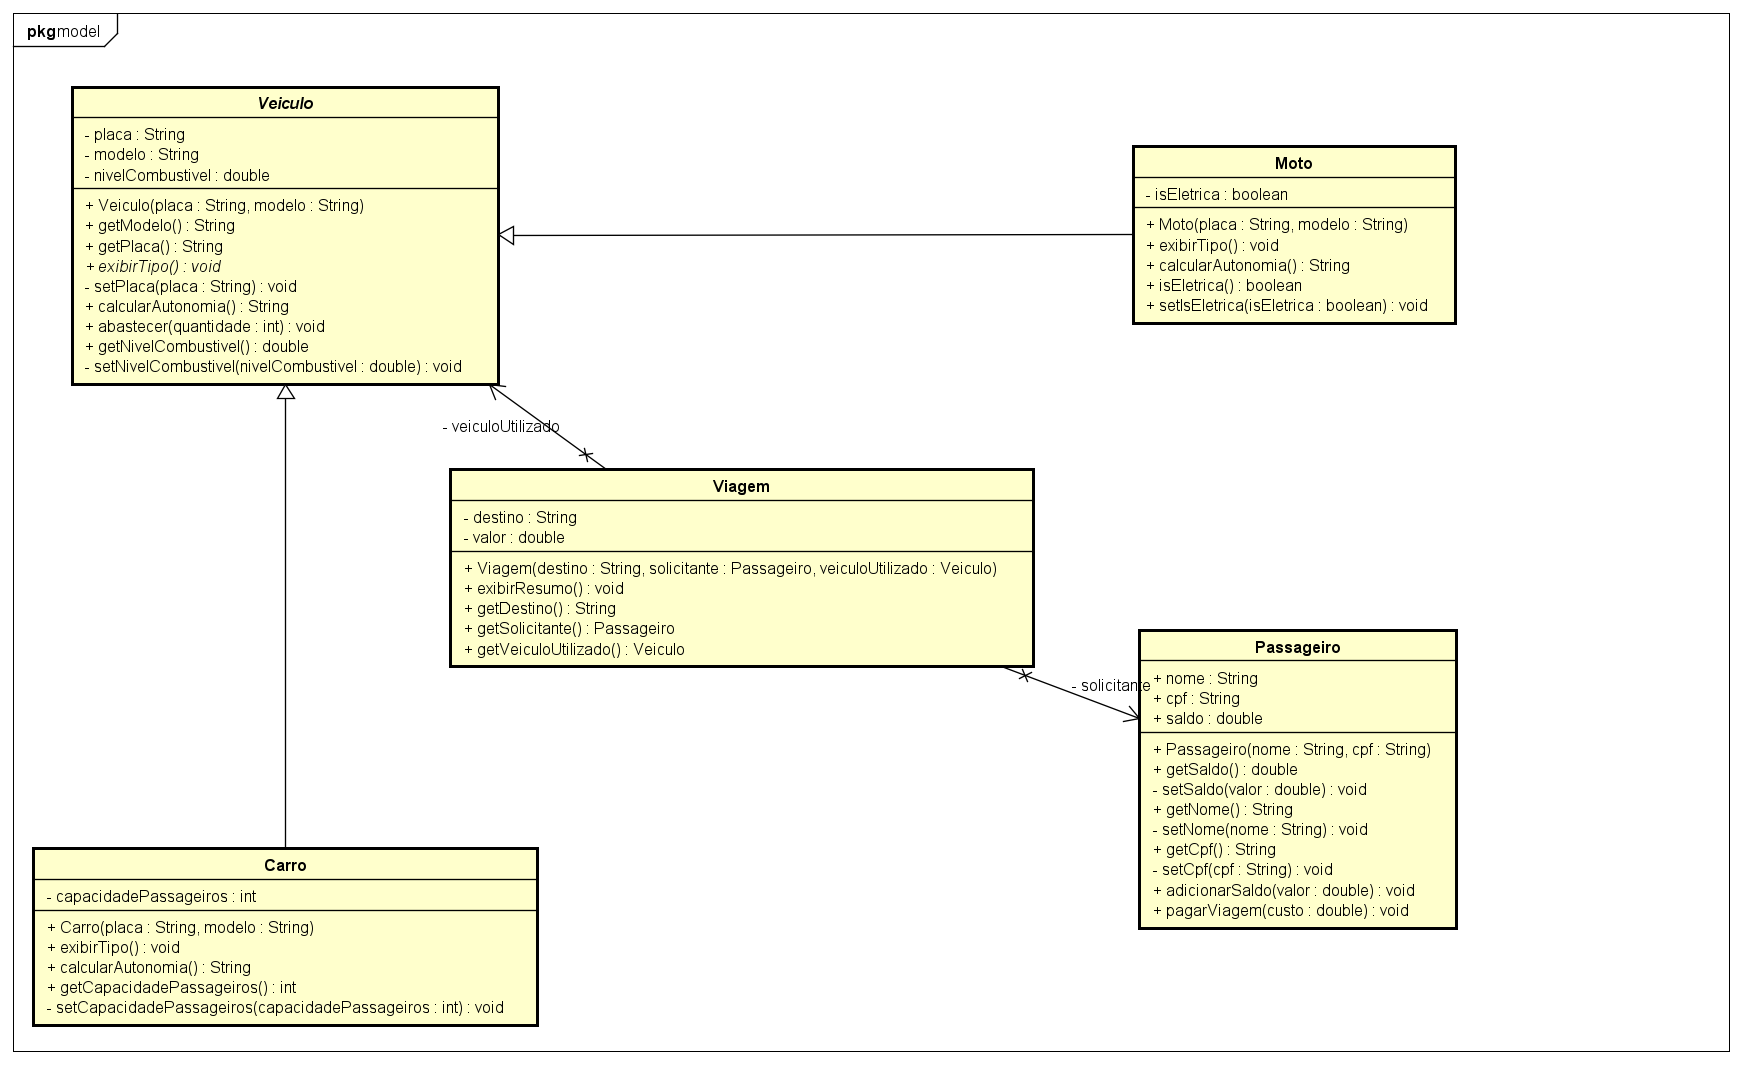
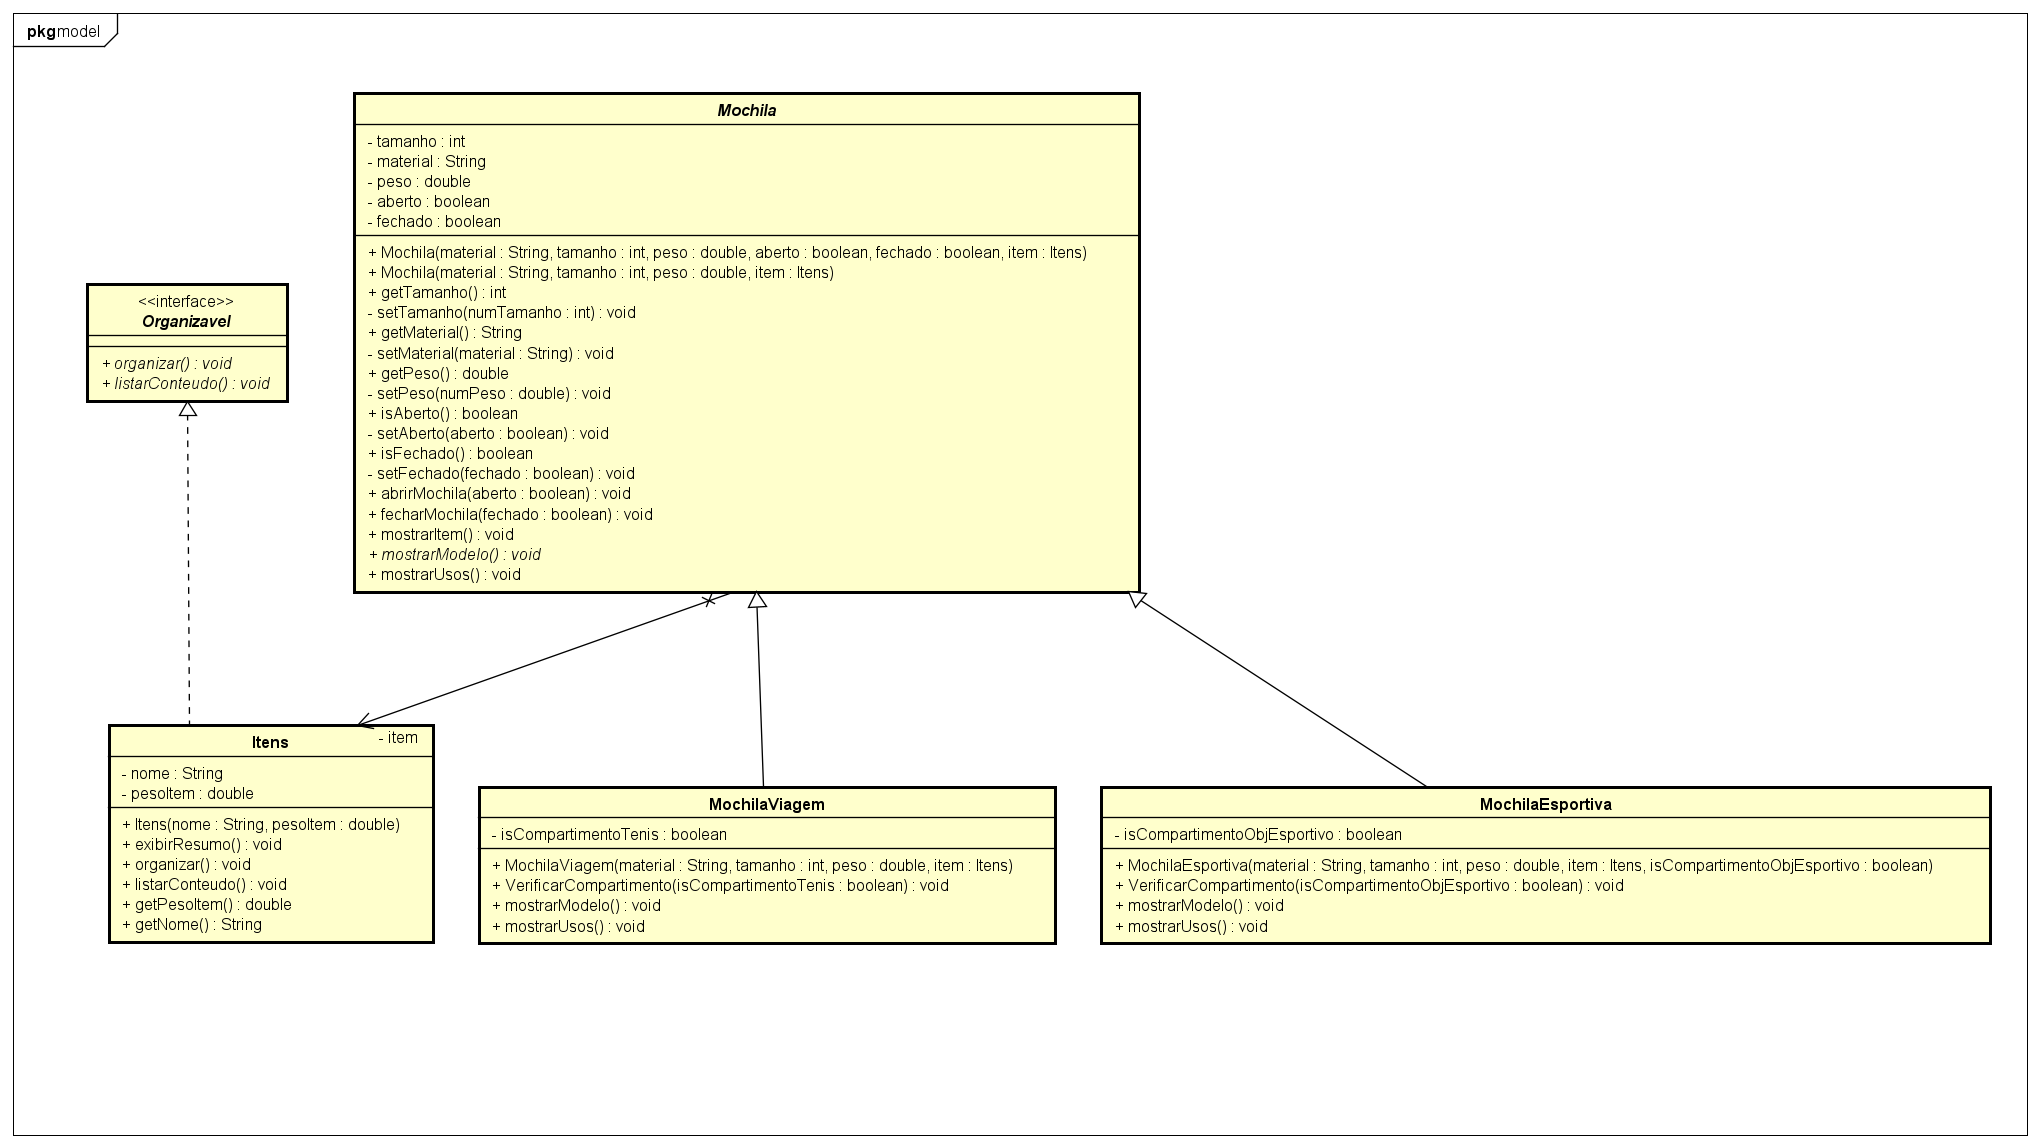
feat: implementa interface

diff --git a/fiapRide/src/br/com/fiapride/main/SistemaPrincipal.java b/fiapRide/src/br/com/fiapride/main/SistemaPrincipal.java
@@ -1,45 +1,57 @@
 package br.com.fiapride.main;
 
-import br.com.fiapride.model.Carro;
-import br.com.fiapride.model.Moto;
+import br.com.fiapride.model.CarroEletrico;
+import br.com.fiapride.model.Celular;
+import br.com.fiapride.model.Recarregavel;
 import br.com.fiapride.model.Veiculo;
 
 public class SistemaPrincipal {
+
     public static void main(String[] args) {
 
-        System.out.println("=== FIAPRIDE: Teste de Classes Abstratas ===");
+        System.out.println("=== FIAPRIDE: Teste de Interfaces ===");
         System.out.println();
 
-        // TESTE 1: Tentar criar Veiculo direto (VAI DAR ERRO)
-        // Descomente a linha abaixo para ver o erro de compilação!
+        // Criamos objetos de classes DIFERENTES
+        CarroEletrico tesla = new CarroEletrico("TES-9999", "Tesla Model 3");
+        Celular iphone = new Celular("iPhone 15");
 
-        // Veiculo v = new Veiculo("ABC-1234", "Generico");
-        // ❌ ERRO: "Veiculo is abstract; cannot be instantiated"
-        // O Java bloqueia porque Veiculo é um molde, não um objeto real!
-
-        // TESTE 2: Criar objetos concretos (FUNCIONA)
-        Veiculo taxi = new Carro("ABC-1234", "Chevrolet Onix");
-        Veiculo mototaxi = new Moto("MOT-9999", "Honda Biz");
-
-        // TESTE 3: Chamar método abstrato implementado
-        System.out.println("Identificação dos Veículos:");
-        taxi.exibirTipo();      // Saída: Sou um Carro
-        mototaxi.exibirTipo();  // Saída: Sou uma Moto
-
-        System.out.println();
-        System.out.println("=== Polimorfismo com Classe Abstrata ===");
-
-        // Podemos criar um array de Veiculo (tipo abstrato)
-        // mas os OBJETOS são instâncias das filhas concretas
-        Veiculo[] frota = new Veiculo[] {
-                new Carro("CAR-1111", "Fiat Uno"),
-                new Moto("MOT-2222", "Yamaha"),
-                new Carro("CAR-3333", "Honda Civic")
+        // POLIMORFISMO DE INTERFACE:
+        // Ambos podem ser tratados como 'Recarregavel'
+        Recarregavel[] recarregaveis = new Recarregavel[] {
+                tesla,
+                iphone
         };
 
-        for (Veiculo v : frota) {
-            v.exibirTipo();
+        System.out.println("=== Recarregando Tudo ===");
+        for (Recarregavel r : recarregaveis) {
+            r.recarregar(85);
             System.out.println("---");
         }
+
+        System.out.println();
+        System.out.println("=== Múltiplos Tipos ===");
+
+        // CarroEletrico É UM Veiculo E TAMBÉM É UM Recarregavel
+        System.out.println("Tesla é um Veiculo? " +
+                (tesla instanceof Veiculo)); // true
+
+        System.out.println("Tesla é Recarregavel? " +
+                (tesla instanceof Recarregavel)); // true
+
+        // Celular NÃO é Veiculo, MAS é Recarregavel
+        System.out.println("Celular é um Veiculo? " +
+                (Veiculo.class.isInstance(iphone))); // false
+
+        System.out.println("Celular é Recarregavel? " +
+                (iphone instanceof Recarregavel)); // true
+
+        System.out.println();
+        System.out.println("=== Autonomia do Carro Elétrico ===");
+        System.out.println(tesla.calcularAutonomia());
+
+        System.out.println();
+        System.out.println("=== Bateria do Celular ===");
+        System.out.println(iphone.getNivelBateria());
     }
 }

diff --git a/fiapRide/src/br/com/fiapride/model/CarroEletrico.java b/fiapRide/src/br/com/fiapride/model/CarroEletrico.java
@@ -1,0 +1,37 @@
+package br.com.fiapride.model;
+
+public class CarroEletrico extends Veiculo implements Recarregavel {
+
+    private int nivelBateria;
+
+    public CarroEletrico(String placa, String modelo) {
+        super(placa, modelo);
+    }
+
+    @Override
+    public void recarregar(int percentual) {
+        if (percentual < Recarregavel.CARGA_MINIMA ||
+                percentual > Recarregavel.CARGA_MAXIMA) {
+
+            System.out.println("Erro: Percentual inválido!");
+            return;
+        }
+        System.out.println("Carro " + this.getModelo() +
+                " recarregado para " + percentual + "%");
+        this.setNivelBateria(percentual);
+    }
+
+    @Override
+    public String calcularAutonomia() {
+        double kmRestante = this.getNivelBateria() * 5.0;
+        return "Autonomia: " + kmRestante + " km.";
+    }
+
+    public int getNivelBateria() {
+        return nivelBateria;
+    }
+
+    public void setNivelBateria(int nivelBateria) {
+        this.nivelBateria = nivelBateria;
+    }
+}

diff --git a/fiapRide/src/br/com/fiapride/model/Celular.java b/fiapRide/src/br/com/fiapride/model/Celular.java
@@ -1,0 +1,31 @@
+package br.com.fiapride.model;
+
+// Celular NÃO herda de Veiculo, mas TAMBÉM é Recarregavel
+public class Celular implements Recarregavel {
+
+    private String marca;
+    private int nivelBateria; // 0-100
+
+    public Celular(String marca) {
+        this.marca = marca;
+        this.nivelBateria = 0;
+    }
+
+    @Override
+    public void recarregar(int percentual) {
+        if (percentual < Recarregavel.CARGA_MINIMA ||
+                percentual > Recarregavel.CARGA_MAXIMA) {
+
+            System.out.println("Erro: Percentual inválido!");
+            return;
+        }
+
+        this.nivelBateria = percentual;
+        System.out.println("Celular " + this.marca +
+                " carregado para " + percentual + "%");
+    }
+
+    public int getNivelBateria() {
+        return this.nivelBateria;
+    }
+}

diff --git a/src/br/com/fiap/main/SistemaPrincipal.java b/src/br/com/fiap/main/SistemaPrincipal.java
@@ -41,7 +41,7 @@ public class SistemaPrincipal {
 		// item4.exibirResumo();
 		// mochilaViagem1.VerificarCompartimento(true);
 
-		// Listas
+		// Lista Mochila
 		ArrayList<Mochila> listaMochilas = new ArrayList<>();
 		listaMochilas.add(mochilaViagem1);
 		listaMochilas.add(mochilaEsportiva1);
@@ -52,6 +52,16 @@ public class SistemaPrincipal {
 			mochilas.mostrarItem();
 			System.out.println("---------------------------------------");
 
+		}
+
+		// Lista Itens
+		ArrayList<Itens> listaItens = new ArrayList<>();
+		listaItens.add(item4);
+		listaItens.add(item6);
+
+		for (Itens itens : listaItens){
+			itens.organizar();
+			itens.listarConteudo();
 		}
 
 	}

diff --git a/src/br/com/fiap/model/Itens.java b/src/br/com/fiap/model/Itens.java
@@ -1,6 +1,6 @@
 package br.com.fiap.model;
 
-public class Itens {
+public class Itens implements Organizavel{
     private String nome;
     private double pesoItem;
 
@@ -12,6 +12,16 @@ public class Itens {
     public void exibirResumo(){
         System.out.println("Nome do item: " + nome );
         System.out.println("Peso do Item: " + pesoItem + "\n");
+    }
+
+    @Override
+    public void organizar() {
+        System.out.println("Item organizado.");
+    }
+
+    @Override
+    public void listarConteudo() {
+        System.out.println("informações: " + nome + "-" + pesoItem + "KG");
     }
 
     public double getPesoItem() {return pesoItem;}

diff --git a/fiapRide/src/br/com/fiapride/model/Recarregavel.java b/fiapRide/src/br/com/fiapride/model/Recarregavel.java
@@ -1,0 +1,9 @@
+package br.com.fiapride.model;
+
+public interface Recarregavel {
+
+    void recarregar(int percentual);
+
+    int CARGA_MAXIMA = 100;
+    int CARGA_MINIMA = 0;
+}

diff --git a/src/br/com/fiap/model/Organizavel.java b/src/br/com/fiap/model/Organizavel.java
@@ -1,0 +1,6 @@
+package br.com.fiap.model;
+
+public interface Organizavel {
+    void organizar();
+    void listarConteudo();
+}
